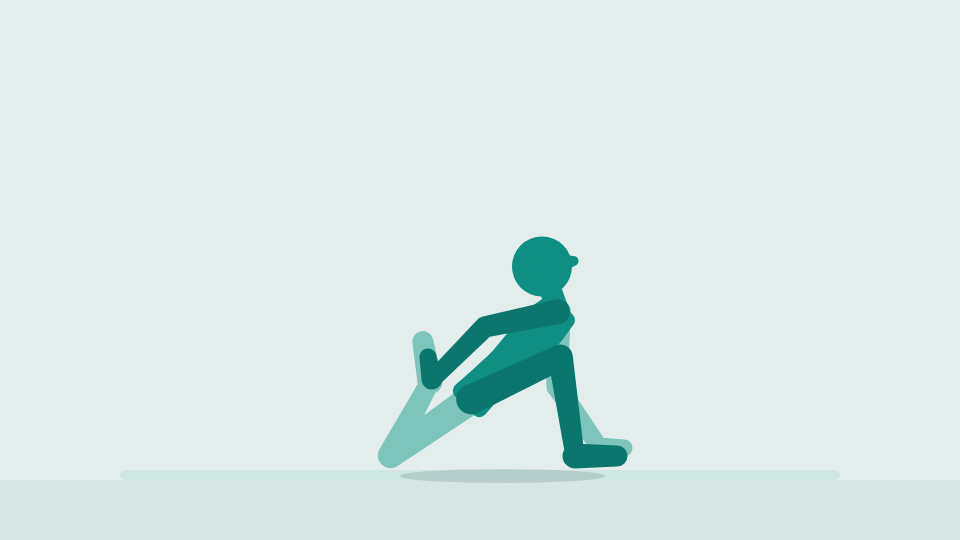
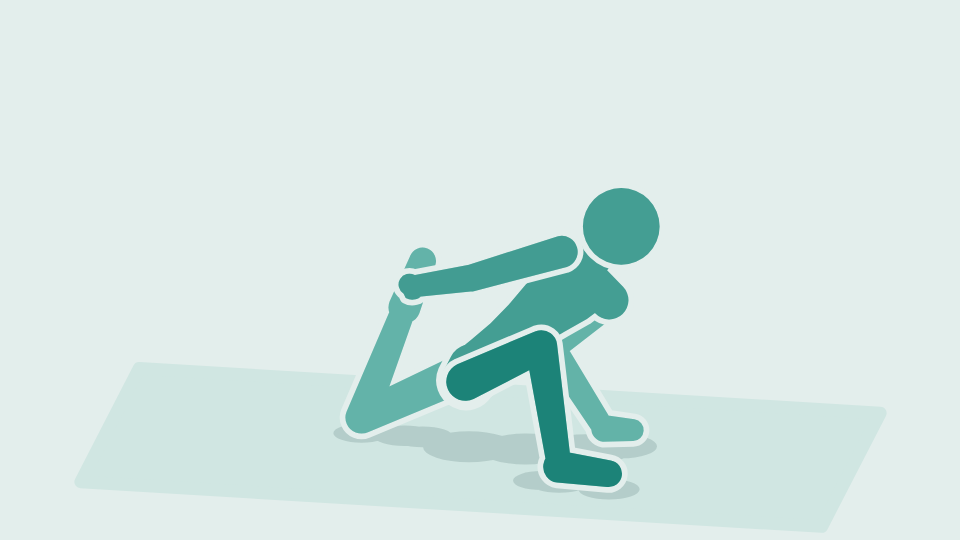
feat: add Half-Twisted Lizard exercise with 3D animation and update related components

Changed region(s): [[0.3438, 0.3259, 0.6875, 0.9481]]

diff --git a/src/data/exercise-animations-3d.ts b/src/data/exercise-animations-3d.ts
@@ -5147,3 +5147,152 @@ export const HALF_SPINAL_TWIST_3D: Clip3D = {
     { ms: 800, pose: TWIST_AHEAD },
   ],
 };
+
+// --- Half-twisted lizard: from the lizard, the right hand reaches up over the front knee and back as the chest turns open, the back shin comes up into it, and the hand draws the foot on in ---
+
+/**
+ * How far the back shin turns up from flat on the floor behind the knee, around the knee: where it
+ * comes up into the waiting hand, a little past upright, and where the hand draws it on to, 70° up
+ * from the floor in front of the knee, so the knee is bent to an acute angle with the calf still
+ * well off the hamstring. The hand can't reach the foot any lower with the left one on the floor.
+ */
+const TWIST_LIZARD_SHIN = { meet: 95, held: 110 };
+/**
+ * Turned open: the hips sink as far as in the lizard on the forearms, and the chest turns to the
+ * right, toward the front leg, so the right hand reaches back with the arm long and the left hand
+ * still on the floor. Drawing the foot in, the body leans on forward a little and bends toward it.
+ * The head turns back the other way, so it keeps looking down past the front hand: turned with the
+ * chest, the face came round to the camera and the nose came and went.
+ */
+const TWIST_LIZARD = { sink: 1, twist: -70, neck: 45, lean: { meet: 40, held: 45 }, side: { meet: 0, held: -10 } };
+/** How far along the top of the foot, from the ankle to the toes, the hand holds it. */
+const TWIST_LIZARD_GRIP = 0.45;
+/**
+ * The ways from the shoulder the right arm points on its way around: forward and up over the front
+ * knee, then up and back over the head, before it comes down behind to the foot. Out to the side,
+ * the arm pointed at the camera halfway and looked like a stub.
+ */
+const TWIST_LIZARD_AROUND: [Vec3, Vec3] = [
+  [0.6, 0.8, 0],
+  [-0.4, 0.9, 0],
+];
+/** How long the arm is on the way: all but straight, swinging about the shoulder. */
+const TWIST_LIZARD_ARM = 0.995 * ARM_REACH;
+/**
+ * The way the right elbow points once the hand lifts: out to the right, across the way the arm
+ * swings, so the elbow never has to swing round. Pointing down and back, the bent arm folded
+ * forward as it went overhead.
+ */
+const TWIST_LIZARD_ELBOW: Vec3 = [0, 0.2, 1];
+/**
+ * Where each part of the move starts and ends, from 0 to 1: the hand reaching back and the shin
+ * coming up together, meeting, then the hand drawing the foot in.
+ */
+const TWIST_LIZARD_PHASES = { reach: [0, 0.75], lift: [0, 0.75], pull: [0.75, 1] } as const;
+
+const TWIST_LIZARD_KNEE = solvePose(LIZARD_UP).leftLeg[1];
+
+/** The back foot with its shin turned up this far (degrees) around the knee, which stays on the floor, the foot pointing on from the shin. */
+const twistLizardFoot = (shin: number, body: Pose3): Pin => {
+  const angle = radians(shin);
+  const along: Vec3 = [-Math.cos(angle), Math.sin(angle), 0];
+  const ankle: Vec3 = [TWIST_LIZARD_KNEE[0] + SKELETON.shin * along[0], TWIST_LIZARD_KNEE[1] + SKELETON.shin * along[1], TWIST_LIZARD_KNEE[2]];
+  return { ...pinVia(solvePose(body).leftLeg[0], TWIST_LIZARD_KNEE, ankle), toward: along };
+};
+
+/** Where the right hand holds the back foot: on top of it, partway to the toes. */
+const twistLizardGrip = (foot: Pin): Vec3 => along3(foot.at, foot.toward!, TWIST_LIZARD_GRIP * SKELETON.foot);
+
+/** The body `reach` of the way turned open, and `pull` of the way leaned on into drawing the foot in. */
+const twistLizardBody = (reach: number, pull: number): Pose3 => {
+  const lean = mix(mix(LIZARD_UP.lean!, TWIST_LIZARD.lean.meet, reach), TWIST_LIZARD.lean.held, pull);
+  return {
+    ...LIZARD_UP,
+    pelvis: lizardBody(TWIST_LIZARD.sink * reach).pelvis,
+    lean,
+    spine: { twist: TWIST_LIZARD.twist * reach, side: mix(TWIST_LIZARD.side.meet * reach, TWIST_LIZARD.side.held, pull) },
+    neck: { flex: -0.4 * lean, twist: TWIST_LIZARD.neck * reach },
+  };
+};
+/** The way the back of the right hand faces holding the foot. */
+const TWIST_LIZARD_TOES: Vec3 = [-0.3, -0.3, -1];
+/**
+ * The right hand `reach` of the way from the floor to `grip`, swinging up over the front knee,
+ * overhead and back, seen from the shoulder: the way it points turns smoothly, and the arm is long
+ * the whole way between the ends, the elbow pointing out to the right.
+ */
+const twistLizardHand = (shoulder: Vec3, grip: Vec3, reach: number): Pin => {
+  const planted = LIZARD_UP.pins!.rightHand!;
+  const from = toward([0, 0, 0], [planted.at[0] - shoulder[0], planted.at[1] - shoulder[1], planted.at[2] - shoulder[2]], 1);
+  const to = toward([0, 0, 0], [grip[0] - shoulder[0], grip[1] - shoulder[1], grip[2] - shoulder[2]], 1);
+  const [w1, w2] = TWIST_LIZARD_AROUND;
+  const a1 = turnToward(from, w1, reach), a2 = turnToward(w1, w2, reach), a3 = turnToward(w2, to, reach);
+  const way = turnToward(turnToward(a1, a2, reach), turnToward(a2, a3, reach), reach);
+  const ends = mix(distance(shoulder, planted.at), Math.min(distance(shoulder, grip), ARM_REACH), reach);
+  const long = Math.min(ends, TWIST_LIZARD_ARM) + (ends > TWIST_LIZARD_ARM ? 0 : (TWIST_LIZARD_ARM - ends) * Math.sin(Math.PI * reach));
+  return { at: along3(shoulder, way, Math.min(long, ARM_REACH)), pole: turnToward(planted.pole!, TWIST_LIZARD_ELBOW, phase(reach, 0, 0.1)), toward: turnToward(planted.toward!, TWIST_LIZARD_TOES, reach) };
+};
+
+/**
+ * The half-twisted lizard `s` of the way along. The hips sink, the chest turns open and the right
+ * hand lets go of the floor and swings up over the front knee, overhead and back, as the back shin
+ * comes up off the floor, the two meeting where the hand takes the foot. Then the hand draws the
+ * foot on in toward the glute as the body leans into it. The left hand stays planted.
+ */
+const halfTwistedLizard = (s: number): Pose3 => {
+  const reach = phase(s, ...TWIST_LIZARD_PHASES.reach);
+  const lift = phase(s, ...TWIST_LIZARD_PHASES.lift);
+  const pull = phase(s, ...TWIST_LIZARD_PHASES.pull);
+  const body = twistLizardBody(reach, pull);
+  const foot = twistLizardFoot(TWIST_LIZARD_SHIN.meet * lift + (TWIST_LIZARD_SHIN.held - TWIST_LIZARD_SHIN.meet) * pull, body);
+  const pins = { ...LIZARD_UP.pins, leftFoot: foot };
+  const shoulder = solvePose({ ...body, pins }).rightArm[0];
+  // Holding the foot, the hand goes where it goes.
+  if (lift === 1) return { ...body, pins: { ...pins, rightHand: { at: withinReach(shoulder, twistLizardGrip(foot)), pole: TWIST_LIZARD_ELBOW, toward: TWIST_LIZARD_TOES } } };
+  return { ...body, pins: { ...pins, rightHand: twistLizardHand(shoulder, twistLizardGrip(twistLizardFoot(TWIST_LIZARD_SHIN.meet, body)), reach) } };
+};
+/**
+ * Coming out, `t` of the way, all at once: the hand lets go of the foot and swings back the way it
+ * came, overhead and over the front knee to the floor, as the shin goes back down and the chest
+ * turns back. The hand leaves upward and the foot goes down, so they part at once.
+ */
+const releaseTwistedLizard = (t: number): Pose3 => {
+  const body = twistLizardBody(1 - t, 1 - t);
+  const pins = { ...LIZARD_UP.pins, leftFoot: twistLizardFoot(TWIST_LIZARD_SHIN.held * (1 - t), body) };
+  const shoulder = solvePose({ ...body, pins }).rightArm[0];
+  return { ...body, pins: { ...pins, rightHand: twistLizardHand(shoulder, twistLizardGrip(twistLizardFoot(TWIST_LIZARD_SHIN.held, body)), 1 - t) } };
+};
+const TWIST_LIZARD_HELD = halfTwistedLizard(1);
+/** The foot and the hand travel on curves, so it takes this many keyframes for them to follow. */
+const TWIST_LIZARD_STEPS = 72;
+
+export const HALF_TWISTED_LIZARD_3D: Clip3D = {
+  view: '3d',
+  // As for the lizard: from the front leg's side, a little in front and just above. The chest turns
+  // open toward the camera, and the right arm swings up over the front knee and back as the back shin
+  // comes up to meet its hand.
+  camera: LIZARD_POSE_3D.camera,
+  highlight: ['leftLeg', 'torso'],
+  behind: [
+    // The right arm is inside the front knee the whole way, behind it from here; by depth the two
+    // swapped as the hand lifted off the floor.
+    ['rightArm', 'rightLeg'],
+    ['torso', 'rightArm'],
+    // Overhead the arm is in front of the head; reaching back it's only just behind it, and clear of
+    // it on screen, and by depth the two swapped as it went.
+    ['head', 'rightArm'],
+    // The left arm, planted well in front, and the back leg are far apart on screen; by depth they
+    // swapped as the body turned.
+    ['leftLeg', 'leftArm'],
+  ],
+  // Holding the foot, the chest turned open.
+  stillFrame: 1 + TWIST_LIZARD_STEPS,
+  keyframes: [
+    { ms: 0, pose: LIZARD_UP },
+    { ms: 600, pose: LIZARD_UP },
+    ...alongArc(3000, TWIST_LIZARD_STEPS, halfTwistedLizard),
+    { ms: 3500, pose: TWIST_LIZARD_HELD },
+    // Out of it with the arm and the leg together.
+    ...alongArc(2000, TWIST_LIZARD_STEPS, releaseTwistedLizard),
+  ],
+};

diff --git a/src/lib/rig3d.test.ts b/src/lib/rig3d.test.ts
@@ -54,6 +54,7 @@ import {
   SEATED_SHOULDER_EXTENSION_3D,
   HALF_KNEELING_FROG_STRETCH_3D,
   HALF_SPINAL_TWIST_3D,
+  HALF_TWISTED_LIZARD_3D,
   NECK_SIDE_STRETCH_3D,
   CROSS_BODY_SHOULDER_STRETCH_3D,
   OVERHEAD_TRICEPS_STRETCH_3D,
@@ -530,6 +531,7 @@ describe('3D clips', () => {
       'finger-tendon-glides',
       'cuban-rotation',
       'half-spinal-twist',
+      'half-twisted-lizard',
       'warmup-marching',
     ]));
   });
@@ -1332,6 +1334,86 @@ describe('3D clips', () => {
     // Nothing ever changes places: the propping arm stays behind the body. From well above, the face
     // never shows a nose.
     expect(new Set(drawOrders(clip))).toEqual(new Set(['rightArm torso leftLeg rightLeg leftArm head']));
+    const view = viewOf(clip.camera);
+    for (let t = 0; t <= durationOf(clip); t += 10) expect(frameAt(clip, view, t).slots.find((slot) => slot.part === 'head')!.d.split('Z').length).toBe(2);
+  });
+
+  it('swings the right arm up over the front knee and back as the chest turns open, then brings the back shin up into the hand, which draws the foot in, and lets go with the arm and the leg coming down together, in the half-twisted lizard', () => {
+    const clip = HALF_TWISTED_LIZARD_3D;
+    const skeletons = samples(clip).map(solvePose);
+    const start = skeletons[0];
+    /** The closest two chains of bones come in the room. */
+    const between = (a: readonly Vec3[], b: readonly Vec3[]) => {
+      let gap = Infinity;
+      for (let i = 1; i < a.length; i++) {
+        for (let j = 1; j < b.length; j++) {
+          for (let s = 0; s <= 12; s++) {
+            for (let u = 0; u <= 12; u++) {
+              const p = a[i - 1].map((v, k) => v + ((a[i][k] - v) * s) / 12);
+              const q = b[j - 1].map((v, k) => v + ((b[j][k] - v) * u) / 12);
+              gap = Math.min(gap, Math.hypot(p[0] - q[0], p[1] - q[1], p[2] - q[2]));
+            }
+          }
+        }
+      }
+      return gap;
+    };
+    // To start, the lizard: both hands planted inside the front foot, the back shin flat on the floor.
+    expect(start.rightArm[2][1]).toBeCloseTo(11, 0);
+    expect(start.leftLeg[2][1]).toBeCloseTo(13, 0);
+    /** How far the back shin is turned up around the knee from flat on the floor behind it. */
+    const shin = ({ leftLeg }: Skeleton) => angleAt([leftLeg[1][0] - 1, leftLeg[1][1], leftLeg[1][2]], leftLeg[1], leftLeg[2]);
+    const holdFrom = clip.keyframes.slice(1, clip.stillFrame + 1).reduce((total, { ms }) => total + ms, 0);
+    const holdTo = holdFrom + clip.keyframes[clip.stillFrame + 1].ms;
+    let elbowStep = 0;
+    let elbowBend = 180;
+    skeletons.forEach((skeleton, i) => {
+      const goingIn = i * 50 <= holdFrom;
+      const { spine, rightLeg, leftLeg, leftArm, rightArm } = skeleton;
+      // The front foot, the back knee and the left hand stay where they are; the hips only sink, and
+      // stay well off the floor.
+      expect(spine[0][1]).toBeLessThanOrEqual(start.spine[0][1] + 0.01);
+      expect(spine[0][1]).toBeGreaterThan(start.leftLeg[1][1] + 25);
+      expect(distance(rightLeg[2], start.rightLeg[2])).toBeCloseTo(0);
+      expect(distance(leftLeg[1], start.leftLeg[1])).toBeLessThan(1);
+      expect(distance(leftArm[2], start.leftArm[2])).toBeCloseTo(0);
+      // The reaching arm swings up over the front knee, overhead and back down to the foot clear of the
+      // front leg and the body, and its upper arm clear of the back leg the hand comes down to.
+      expect(between(rightArm, rightLeg)).toBeGreaterThan(30);
+      expect(between(rightArm.slice(0, 2), leftLeg)).toBeGreaterThan(50);
+      expect(between(rightArm.slice(1), spine)).toBeGreaterThan(38);
+      // Going in, the hand has reached back before the foot leaves the floor, and holds it from where
+      // the shin comes up into it on.
+      if (goingIn && leftLeg[2][1] > 15) expect(rightArm[2][0]).toBeLessThan(spine[0][0] - 40);
+      if ((goingIn || i * 50 <= holdTo) && shin(skeleton) > 94) expect(distance(rightArm[2], leftLeg[2])).toBeLessThan(SKELETON.foot);
+      // Till then the arm stays long, the elbow only a little bent; drawing the foot in bends it more.
+      else if (goingIn) elbowBend = Math.min(elbowBend, angleAt(rightArm[0], rightArm[1], rightArm[2]));
+      if (i > 0) elbowStep = Math.max(elbowStep, distance(rightArm[1], skeletons[i - 1].rightArm[1]));
+    });
+    // The elbow moves smoothly the whole way, never swinging round, which would take it a forearm or
+    // more: at most this far in the 50ms between samples, as the arm swings overhead.
+    expect(elbowBend).toBeGreaterThan(130);
+    expect(elbowStep).toBeLessThan(30);
+    // Coming out, the hand lets go at once and the arm and the leg come down together: halfway out,
+    // the shin is halfway down and the hand well off the foot.
+    const out = solvePose(poseAt3(clip, (holdTo + durationOf(clip)) / 2));
+    expect(shin(out)).toBeGreaterThan(30);
+    expect(shin(out)).toBeLessThan(80);
+    expect(distance(out.rightArm[2], out.leftLeg[2])).toBeGreaterThan(60);
+    // Held: the right hand on the back foot, the shin past upright, 70° up from the floor in front of
+    // the knee, the knee bent to an acute angle with the calf still off the hamstring, and the chest
+    // turned open toward the front leg.
+    const held = solvePose(clip.keyframes[clip.stillFrame].pose);
+    expect(distance(held.rightArm[2], held.leftLeg[2])).toBeLessThan(SKELETON.foot);
+    expect(angleAt([held.leftLeg[1][0] + 1, held.leftLeg[1][1], held.leftLeg[1][2]], held.leftLeg[1], held.leftLeg[2])).toBeCloseTo(70);
+    expect(angleAt(held.leftLeg[0], held.leftLeg[1], held.leftLeg[2])).toBeLessThan(90);
+    expect(angleAt(held.leftLeg[0], held.leftLeg[1], held.leftLeg[2])).toBeGreaterThan(35);
+    const shoulders = ({ rightArm, leftArm }: Skeleton) => (Math.atan2(rightArm[0][0] - leftArm[0][0], rightArm[0][2] - leftArm[0][2]) * 180) / Math.PI;
+    // Seen from above: the body leans well forward, so the spine's 70° turn shows as less than that.
+    expect(Math.abs(shoulders(held) - shoulders(start))).toBeGreaterThan(40);
+    expect(longestHold(clip)).toBeGreaterThanOrEqual(3000);
+    // Nothing ever changes places, and the face, looking down past the front hand, never shows a nose.
+    expect(new Set(drawOrders(clip))).toEqual(new Set(['leftLeg leftArm torso head rightArm rightLeg']));
     const view = viewOf(clip.camera);
     for (let t = 0; t <= durationOf(clip); t += 10) expect(frameAt(clip, view, t).slots.find((slot) => slot.part === 'head')!.d.split('Z').length).toBe(2);
   });

diff --git a/src/data/exercises.ts b/src/data/exercises.ts
@@ -29,6 +29,7 @@ import {
   FROG_STRETCH_3D,
   HALF_KNEELING_FROG_STRETCH_3D,
   HALF_SPINAL_TWIST_3D,
+  HALF_TWISTED_LIZARD_3D,
   HORSE_STANCE_3D,
   KNEELING_WRIST_STRETCH_3D,
   KNIGHT_STRETCH_3D,
@@ -68,7 +69,6 @@ import {
 } from './exercise-animations-3d';
 
 import {
-  HALF_TWISTED_LIZARD,
   INCHWORM,
   LYING_EXTERNAL_ROTATION_STRETCH,
   OPEN_BOOK,
@@ -464,7 +464,7 @@ const ALL_EXERCISES: Exercise[] = [
       'Pull the foot toward your glute, twist open and hold, then switch sides',
     ],
     photo: require('@/assets/images/exercises/half-twisted-lizard.png'),
-    animation: HALF_TWISTED_LIZARD,
+    animation: HALF_TWISTED_LIZARD_3D,
     twoSided: true,
   },
   {

diff --git a/README.md b/README.md
@@ -196,16 +196,16 @@ Moved to the new engine:
 | Finger tendon glides | Library | `FINGER_TENDON_GLIDES_3D` |
 | Cuban rotation | Library | `CUBAN_ROTATION_3D` |
 | Half spinal twist | Library | `HALF_SPINAL_TWIST_3D` |
+| Half-twisted lizard | Library | `HALF_TWISTED_LIZARD_3D` |
 
 Still on the old engine (clip names in `exercise-animations.ts`). Where a clip needs something the new engine doesn't have yet, it's noted.
 
-All ten flexibility tests are on the new engine. The last six to move (knee to wall, the two seated hip rotations, sit and reach, knee to chest and straight leg raise) haven't been checked on a device yet, so their old clips are still in `exercise-animations.ts`; delete them once they have. The same goes for the three 90 to 90 clips in the library (`NINETY_TO_NINETY_ROTATIONS` has to stay either way: windshield wipers with knee lift is built on it), and for the two pancake clips (`PANCAKE_UP` has to stay either way: the seated straddle side bend is built on it), and for the active straight leg raise, ankle mobilization, the behind the back chest opener, back lying reverse pigeon, belly down foot splay, the five squats (bottom squat, bottom squat rotation, squat to stand, Cossack squat and resting Cossack squat), Blackburn, butterfly, cobra to prayer, downward facing dog, prayer pose, puppy pose, lying knee hug, lying hamstring stretch, seated pike stretch, three legged downward facing dog, standing forward fold, kneeling wrist stretch, floor angels, reverse tabletop, knight stretch, horse stance, the lying windshield wiper hold, frog stretch, frog rocks, knight to hamstring, couch stretch, pyramid stretch, wrist rocks, elephant walk, the seated straddle side bend, seated shoulder extension, the half kneeling frog stretch, the neck side stretch, the cross-body shoulder stretch, the overhead triceps stretch, cow face arms, the pigeon stretch, hip circles, the Breakdancer, scap mobilization, the lizard pose, the figure four stretch, the two manual forearm stretches, downward facing dog to cobra, Cuban rotation, the half spinal twist and finger tendon glides (`FINGER_TENDON_GLIDES` is still checked by `figure-rig.test.ts` and `exercise-video.test.tsx` until then).
+All ten flexibility tests are on the new engine. The last six to move (knee to wall, the two seated hip rotations, sit and reach, knee to chest and straight leg raise) haven't been checked on a device yet, so their old clips are still in `exercise-animations.ts`; delete them once they have. The same goes for the three 90 to 90 clips in the library (`NINETY_TO_NINETY_ROTATIONS` has to stay either way: windshield wipers with knee lift is built on it), and for the two pancake clips (`PANCAKE_UP` has to stay either way: the seated straddle side bend is built on it), and for the active straight leg raise, ankle mobilization, the behind the back chest opener, back lying reverse pigeon, belly down foot splay, the five squats (bottom squat, bottom squat rotation, squat to stand, Cossack squat and resting Cossack squat), Blackburn, butterfly, cobra to prayer, downward facing dog, prayer pose, puppy pose, lying knee hug, lying hamstring stretch, seated pike stretch, three legged downward facing dog, standing forward fold, kneeling wrist stretch, floor angels, reverse tabletop, knight stretch, horse stance, the lying windshield wiper hold, frog stretch, frog rocks, knight to hamstring, couch stretch, pyramid stretch, wrist rocks, elephant walk, the seated straddle side bend, seated shoulder extension, the half kneeling frog stretch, the neck side stretch, the cross-body shoulder stretch, the overhead triceps stretch, cow face arms, the pigeon stretch, hip circles, the Breakdancer, scap mobilization, the lizard pose, the figure four stretch, the two manual forearm stretches, downward facing dog to cobra, Cuban rotation, the half spinal twist, the half-twisted lizard and finger tendon glides (`FINGER_TENDON_GLIDES` is still checked by `figure-rig.test.ts` and `exercise-video.test.tsx` until then).
 
 Library (`src/data/exercises.ts`):
 
 | Exercise | Clip | Needs |
 |---|---|---|
-| Half-twisted lizard | `HALF_TWISTED_LIZARD` | |
 | Inchworm | `INCHWORM` | a travelling camera |
 | Lying external rotation stretch | `LYING_EXTERNAL_ROTATION_STRETCH` | dumbbell |
 | Open book | `OPEN_BOOK` | |
